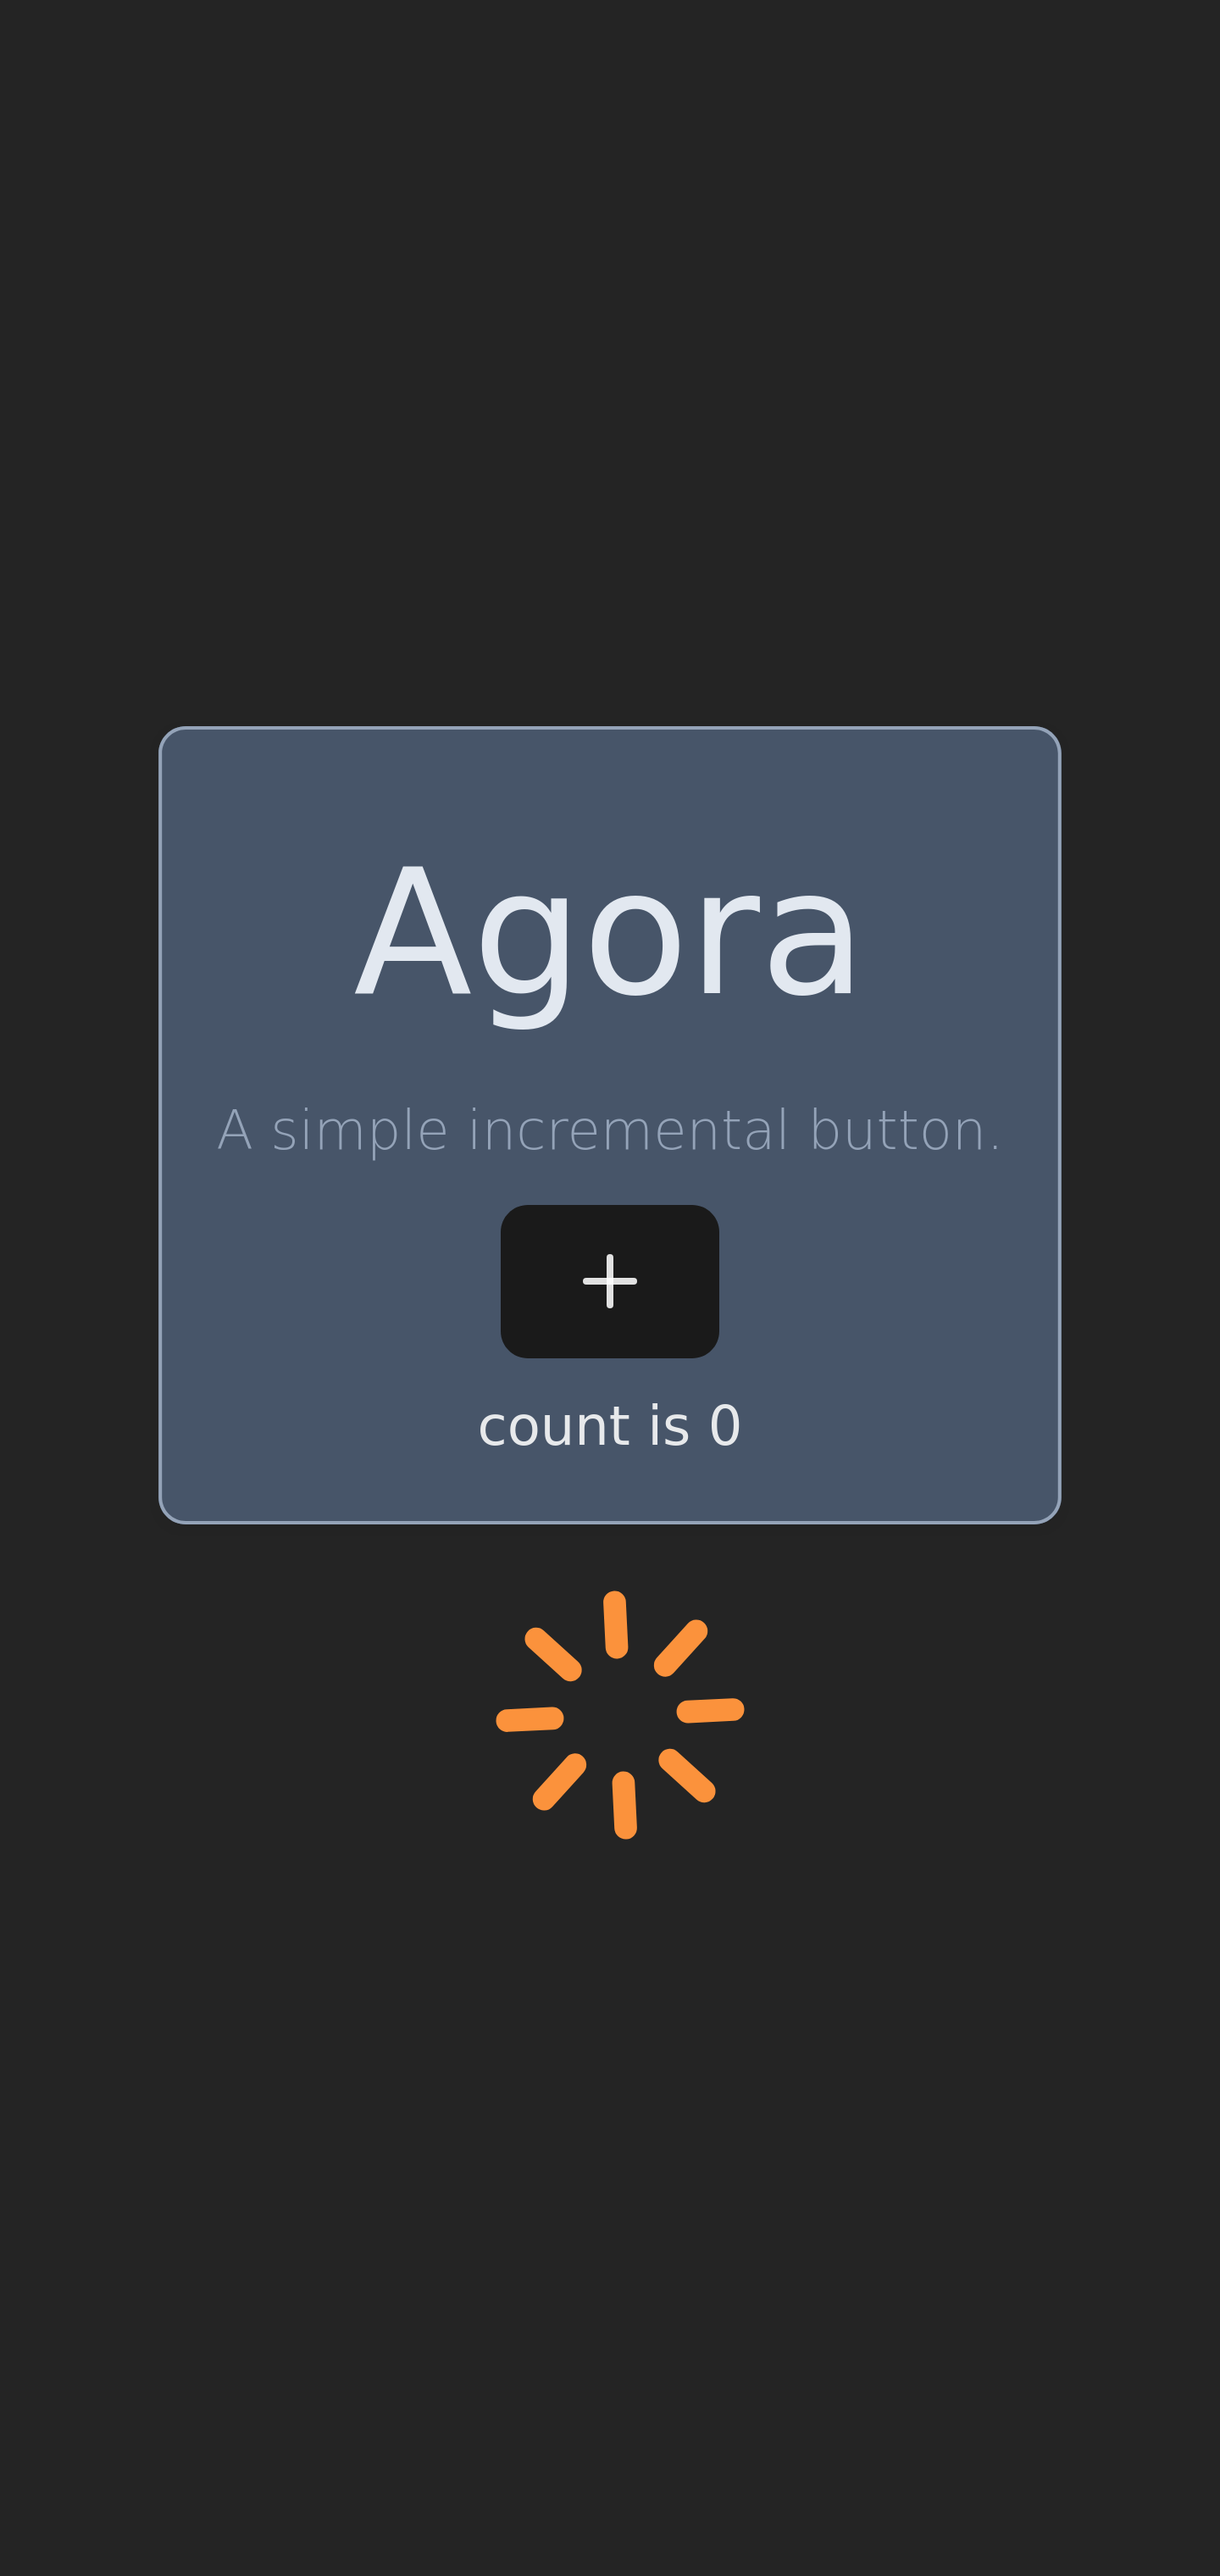
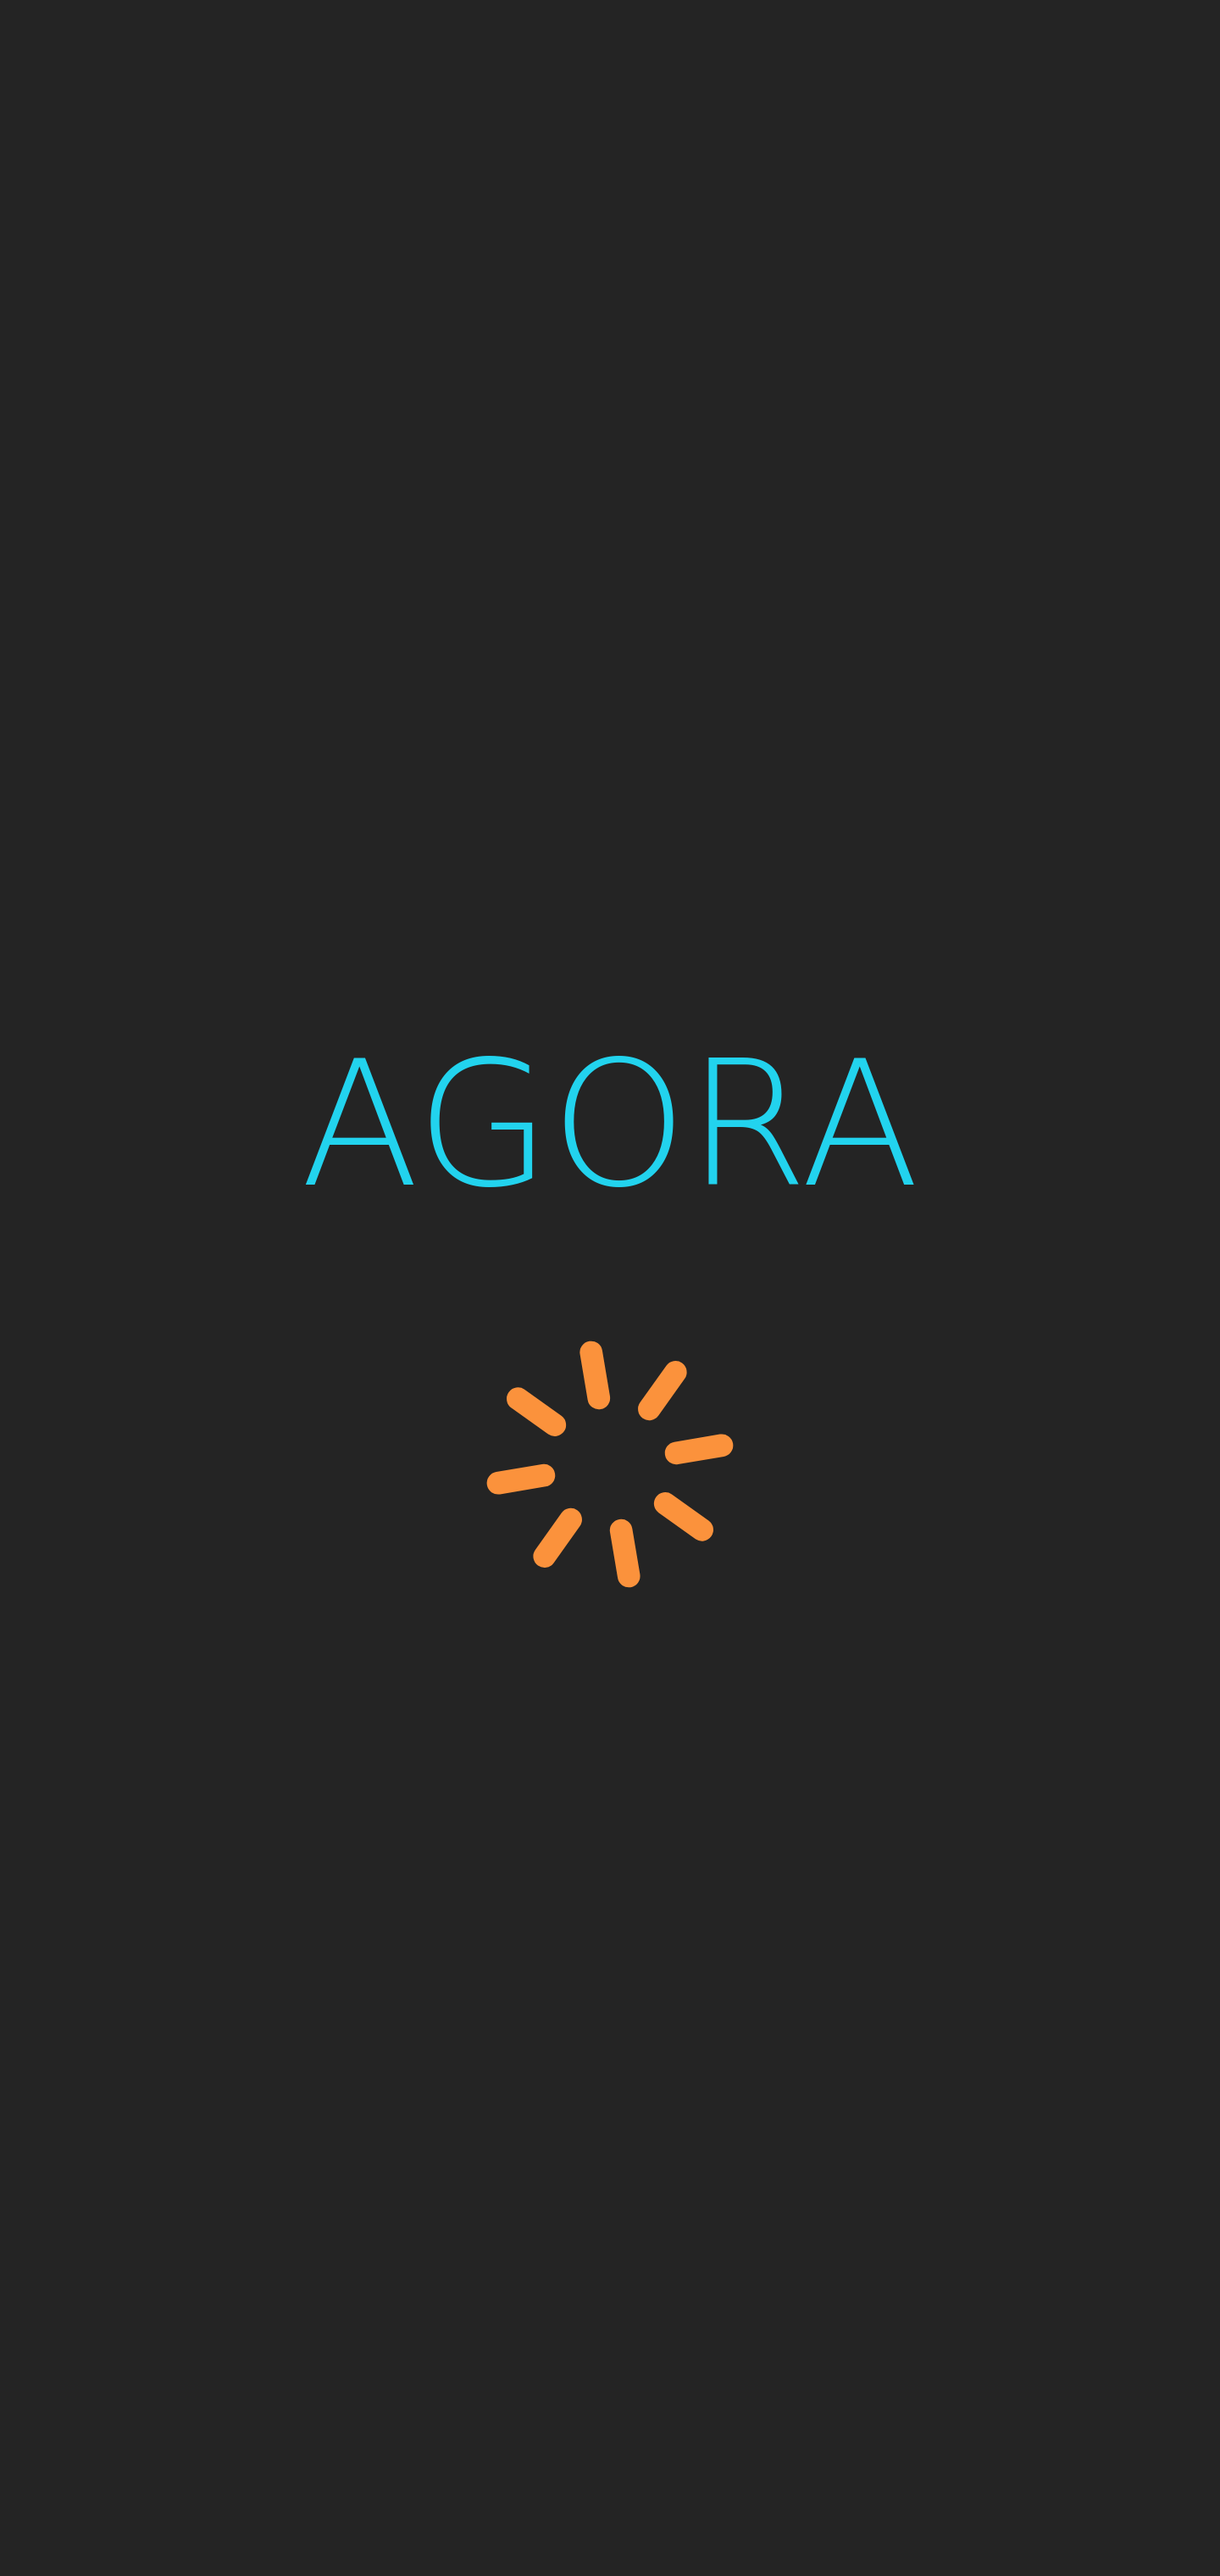
improvement

Changed region(s): [[0.125, 0.2812, 0.875, 0.7188], [0.5, 0.6875, 0.5312, 0.7188]]

diff --git a/templates/agora/ui-agora03/src/app/app.component.ts b/templates/agora/ui-agora03/src/app/app.component.ts
@@ -1,87 +1,21 @@
-import { Component, resource } from "@angular/core"
+import { Component } from "@angular/core"
 import { RouterOutlet } from "@angular/router"
-import { LucideAngularModule, Loader, Plus } from "lucide-angular"
-import ENV from "../env"
-import { ApiResponse } from "./api-response"
 
 @Component({
-  standalone: true,
   selector: "app-root",
-  imports: [RouterOutlet, LucideAngularModule],
+  standalone: true,
+  imports: [RouterOutlet],
   template: `
-    <div class="rounded-lg border shadow-sm bg-slate-600 border-slate-400">
-      <div class="p-4">
-        <h3 class="m-4 text-slate-200">
-          {{ title }}
-        </h3>
-        <p class="my-2 font-thin prose text-slate-400">
-          A simple incremental button.
-        </p>
-        <button class="mb-2" type="button" (click)="increment()">
-          <i-lucide [img]="Plus"></i-lucide>
-        </button>
-        <output class="block">count is {{ count }}</output>
-      </div>
-    </div>
-
-    @if (apiResponse.status != 200) {
-    <div class="flex justify-center items-center mt-4">
-      <lucide-angular
-        [img]="Loader"
-        class="w-20 h-20 text-orange-400 animate-[spin_1s_ease-in-out_infinite]"
-      ></lucide-angular>
-    </div>
-    } @if (apiResponse.status === 200) {
-    <div class="mt-4 rounded-lg border shadow-sm bg-slate-600 border-slate-400">
-      <p class="mx-4 my-2 text-slate-400">{{ apiResponse.message }}</p>
-    </div>
-    }
+    <header class="flex justify-center items-center m-4">
+      <h3 class="font-thin text-cyan-400 uppercase">
+        {{ title }}
+      </h3>
+    </header>
 
     <router-outlet />
   `,
   styles: [],
 })
 export class AppComponent {
-  readonly Loader = Loader
-  readonly Plus = Plus
   title = "Agora"
-  count: number = 0
-  apiResponse: ApiResponse = {
-    status: 0,
-    message: "",
-  }
-
-  increment() {
-    this.count++
-  }
-
-  // csrf-cookie
-  csrfCookieUri = ENV.baseUrl + "sanctum/csrf-cookie"
-  csrfCookieResource = resource({
-    loader: async () => {
-      const response = await fetch(this.csrfCookieUri)
-      if (response.ok) {
-        console.log(response)
-        return await response.json()
-      } else {
-        console.error("Could not get a valid response from the API!")
-      }
-    },
-  })
-
-  // ping test
-  apiPingResource = resource({
-    loader: async () => {
-      const response = await fetch(`${ENV.baseUrl}api/ping`)
-      if (!response.ok) {
-        console.error("Could not get a valid response from the API!")
-      } else {
-        let apiResponse = await response.json()
-        this.apiResponse.status = apiResponse.status
-        this.apiResponse.message = apiResponse.message
-        console.log(apiResponse.message)
-        return await response.json()
-      }
-    },
-  })
 }

diff --git a/templates/agora/ui-agora03/src/app/endpoint.service.ts b/templates/agora/ui-agora03/src/app/endpoint.service.ts
@@ -1,0 +1,45 @@
+import { Injectable, resource } from "@angular/core"
+import ENV from "../env"
+import { ApiResponse } from "./api-response"
+
+@Injectable({
+  providedIn: "root",
+})
+export class EndpointService {
+  apiResponse?: ApiResponse | undefined
+
+  // csrf-cookie
+  csrfCookieUri = ENV.baseUrl + "sanctum/csrf-cookie"
+  csrfCookieResource = resource({
+    loader: async () => {
+      const response = await fetch(this.csrfCookieUri)
+      if (response.ok) {
+        console.log(response)
+        return await response.json()
+      } else {
+        console.error("Could not get a valid response from the API!")
+      }
+    },
+  })
+
+  // ping test
+  apiPingResource = resource({
+    loader: async () => {
+      const response = await fetch(`${ENV.baseUrl}api/ping`)
+      if (!response.ok) {
+        console.error("Could not get a valid response from the API!")
+      } else {
+        console.log("Response: ", response)
+        try {
+          this.apiResponse = await response.json()
+          console.log("this.apiResponse: ", this.apiResponse)
+        } catch (error) {
+          console.error(error)
+        }
+        return await response.json()
+      }
+    },
+  })
+
+  constructor() {}
+}

diff --git a/templates/agora/ui-agora03/src/app/endpoint-card.component.ts b/templates/agora/ui-agora03/src/app/endpoint-card.component.ts
@@ -1,0 +1,34 @@
+import { Component } from "@angular/core"
+import { LucideAngularModule, Loader } from "lucide-angular"
+import { EndpointService } from "./endpoint.service"
+
+@Component({
+  selector: "app-endpoint-card",
+  standalone: true,
+  imports: [LucideAngularModule],
+  template: `
+    <div class="flex justify-center items-center">
+      @if (endpointService.apiResponse?.status != 200) {
+      <div class="mt-4">
+        <lucide-angular
+          [img]="Loader"
+          class="w-20 h-20 text-orange-400 animate-[spin_1s_ease-in-out_infinite]"
+        ></lucide-angular>
+      </div>
+      } @if (endpointService.apiResponse?.status === 200) {
+      <div
+        class="mt-4 rounded-lg border shadow-sm bg-slate-600 border-slate-400"
+      >
+        <p class="mx-4 my-2 text-slate-400">
+          {{ endpointService.apiResponse?.message }}
+        </p>
+      </div>
+      }
+    </div>
+  `,
+  styles: ``,
+})
+export class EndpointCardComponent {
+  readonly Loader = Loader
+  constructor(readonly endpointService: EndpointService) {}
+}

diff --git a/templates/agora/ui-agora03/src/app/count-card.component.ts b/templates/agora/ui-agora03/src/app/count-card.component.ts
@@ -1,0 +1,33 @@
+import { Component } from "@angular/core"
+import { LucideAngularModule, Plus } from "lucide-angular"
+import { EndpointCardComponent } from "./endpoint-card.component"
+
+@Component({
+  selector: "app-count-card",
+  standalone: true,
+  imports: [LucideAngularModule, EndpointCardComponent],
+  template: `
+    <div class="rounded-lg border shadow-sm bg-slate-600 border-slate-400">
+      <div class="p-4">
+        <p class="my-2 font-thin prose text-slate-400">
+          A simple incremental button.
+        </p>
+        <button class="mb-2" type="button" (click)="increment()">
+          <i-lucide [img]="Plus"></i-lucide>
+        </button>
+        <output class="block">count is {{ count }}</output>
+      </div>
+    </div>
+
+    <app-endpoint-card />
+  `,
+  styles: ``,
+})
+export class CountCardComponent {
+  readonly Plus = Plus
+  count: number = 0
+
+  increment() {
+    this.count++
+  }
+}

diff --git a/templates/agora/ui-agora03/src/app/app.routes.ts b/templates/agora/ui-agora03/src/app/app.routes.ts
@@ -1,3 +1,8 @@
-import { Routes } from '@angular/router';
+import { Routes } from "@angular/router"
+import { EndpointCardComponent } from "./endpoint-card.component"
 
-export const routes: Routes = [];
+export const routes: Routes = [
+  { path: "", pathMatch: "full", redirectTo: "endpoint" },
+  { path: "endpoint", component: EndpointCardComponent },
+  { path: "", pathMatch: "full", redirectTo: "" },
+]

diff --git a/templates/agora/ui-agora03/src/app/post-card.component.ts b/templates/agora/ui-agora03/src/app/post-card.component.ts
@@ -1,4 +1,4 @@
-import { Component } from '@angular/core'
+import { Component } from "@angular/core"
 
 @Component({
   selector: 'app-post-card',

diff --git a/templates/agora/ui-agora03/src/app/post-list.component.ts b/templates/agora/ui-agora03/src/app/post-list.component.ts
@@ -1,4 +1,4 @@
-import { Component } from '@angular/core'
+import { Component } from "@angular/core"
 
 @Component({
   selector: 'app-post-list',

diff --git a/templates/agora/ui-agora03/src/app/posts.service.ts b/templates/agora/ui-agora03/src/app/posts.service.ts
@@ -1,4 +1,4 @@
-import { Injectable } from '@angular/core'
+import { Injectable } from "@angular/core"
 
 @Injectable({
   providedIn: 'root'

diff --git a/templates/agora/ui-agora03/src/app/api-response.ts b/templates/agora/ui-agora03/src/app/api-response.ts
@@ -1,4 +1,4 @@
 export interface ApiResponse {
-    status: number
-    message: string
+  status: number
+  message: string
 }

diff --git a/templates/agora/ui-agora03/docs/1_SCAFFOLDING.md b/templates/agora/ui-agora03/docs/1_SCAFFOLDING.md
@@ -40,6 +40,9 @@ license-report --output=csv > licenses_report.csv
 
 ```bash
 ng generate interface ApiResponse
+ng generate service Endpoint --flat
+ng generate component EndpointCard --flat --standalone --inline-template --inline-style
+ng generate component CountCard --flat --standalone --inline-template --inline-style
 ng generate interface Post
 ng generate service Posts --flat
 ng generate component PostList --flat --standalone --inline-template --inline-style

diff --git a/templates/agora/ui-agora03/README.md b/templates/agora/ui-agora03/README.md
@@ -2,6 +2,10 @@
 
 This is a frontend web application developed using Angular and Tailwind CSS framework written in TypeScript programming language.
 
+Cover:
+
+![ui-agora03](./screenshots/screenshot_ui-agora03_mobile_first_cover.png)
+
 Screenshot taken during loading:
 
 ![ui-agora03](./screenshots/screenshot_ui-agora03_mobile_first_loading.png)
